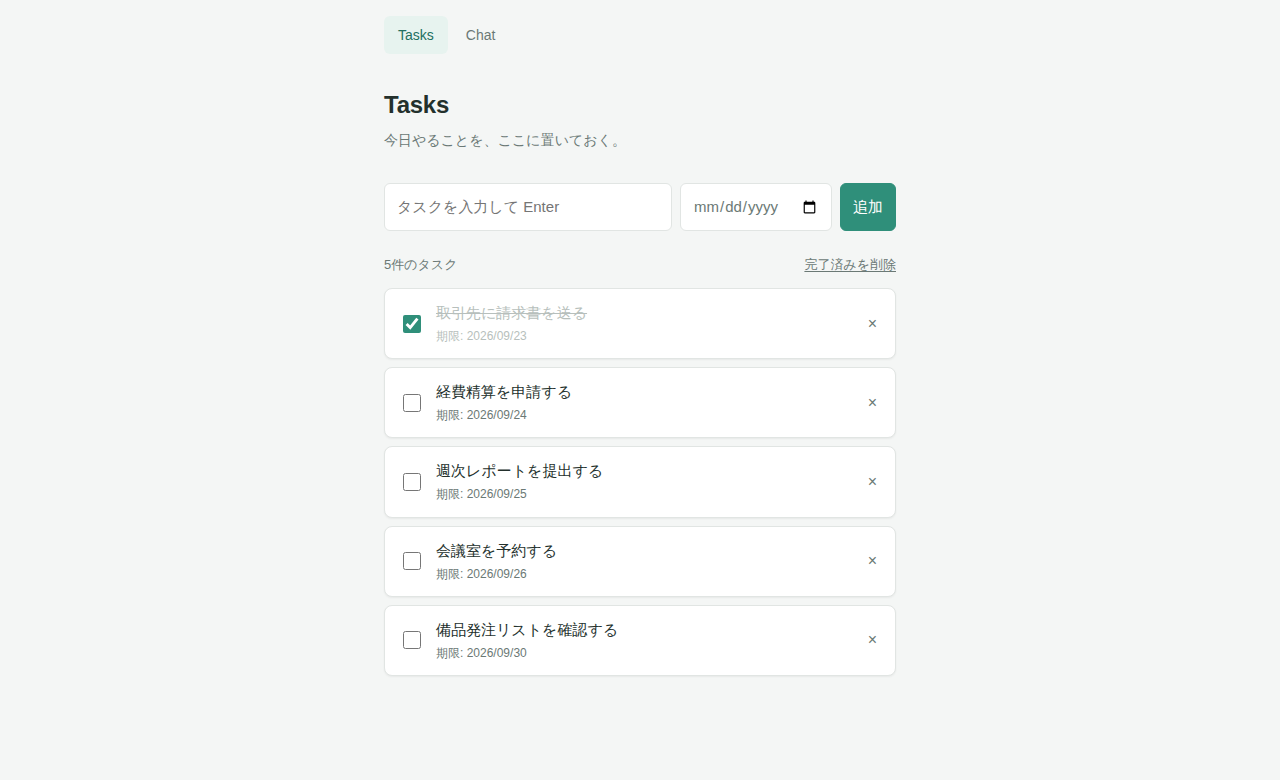
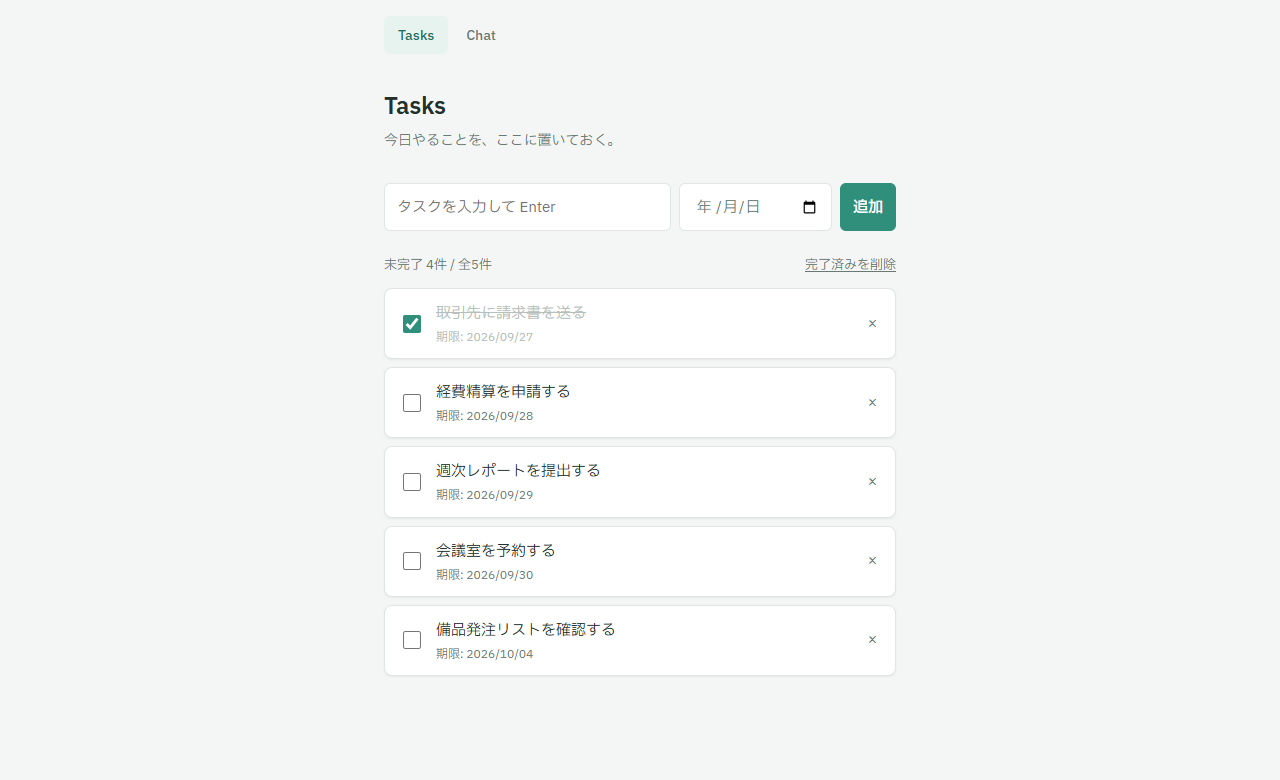
Show remaining and total task counts on the todo screen
The count label only showed the total including completed tasks, so it
was hard to tell at a glance how many tasks were left. Closes #27.

diff --git a/front/app/pages/index.vue b/front/app/pages/index.vue
@@ -2,6 +2,7 @@
 const { data: tasks, refresh } = await useFetch('/api/tasks', { default: () => [] })
 const title = ref('')
 const due = ref('')
+const remainingCount = computed(() => tasks.value.filter((t) => !t.done).length)
 
 async function handleSubmit() {
   const trimmed = title.value.trim()
@@ -49,7 +50,7 @@ async function clearDoneTasks() {
     </form>
 
     <div class="list-meta">
-      <span>{{ tasks.length }}件のタスク</span>
+      <span>未完了 {{ remainingCount }}件 / 全{{ tasks.length }}件</span>
       <button type="button" class="text-button" @click="clearDoneTasks">
         完了済みを削除
       </button>

diff --git a/docs/screens/tasks.md b/docs/screens/tasks.md
@@ -18,7 +18,7 @@
 | タイトル入力欄 | タスク名を入力するテキスト入力。空欄のまま送信しても何も起きない（前後の空白はトリムされる） |
 | 期限入力欄 | 日付入力（`<input type="date">`）。省略可 |
 | 追加ボタン | フォーム送信でタスクを追加する |
-| 件数表示 | 「N件のタスク」で現在のタスク総数（完了済み含む）を表示する |
+| 件数表示 | 「未完了 N件 / 全M件」で未完了タスクの件数と、完了済みを含むタスク総数を併記する。追加・完了切替・削除・完了済みの一括削除の直後に更新される |
 | 完了済みを削除リンク | 完了済み（`done: true`）のタスクを一括削除する |
 | タスク一覧 | `TaskItem`コンポーネントの縦並び。チェックボックス・タイトル・期限（あれば）・削除ボタンを持つ |
 | 空状態メッセージ | タスクが0件のとき「タスクはまだありません。上の入力欄から追加してください。」を表示する |
